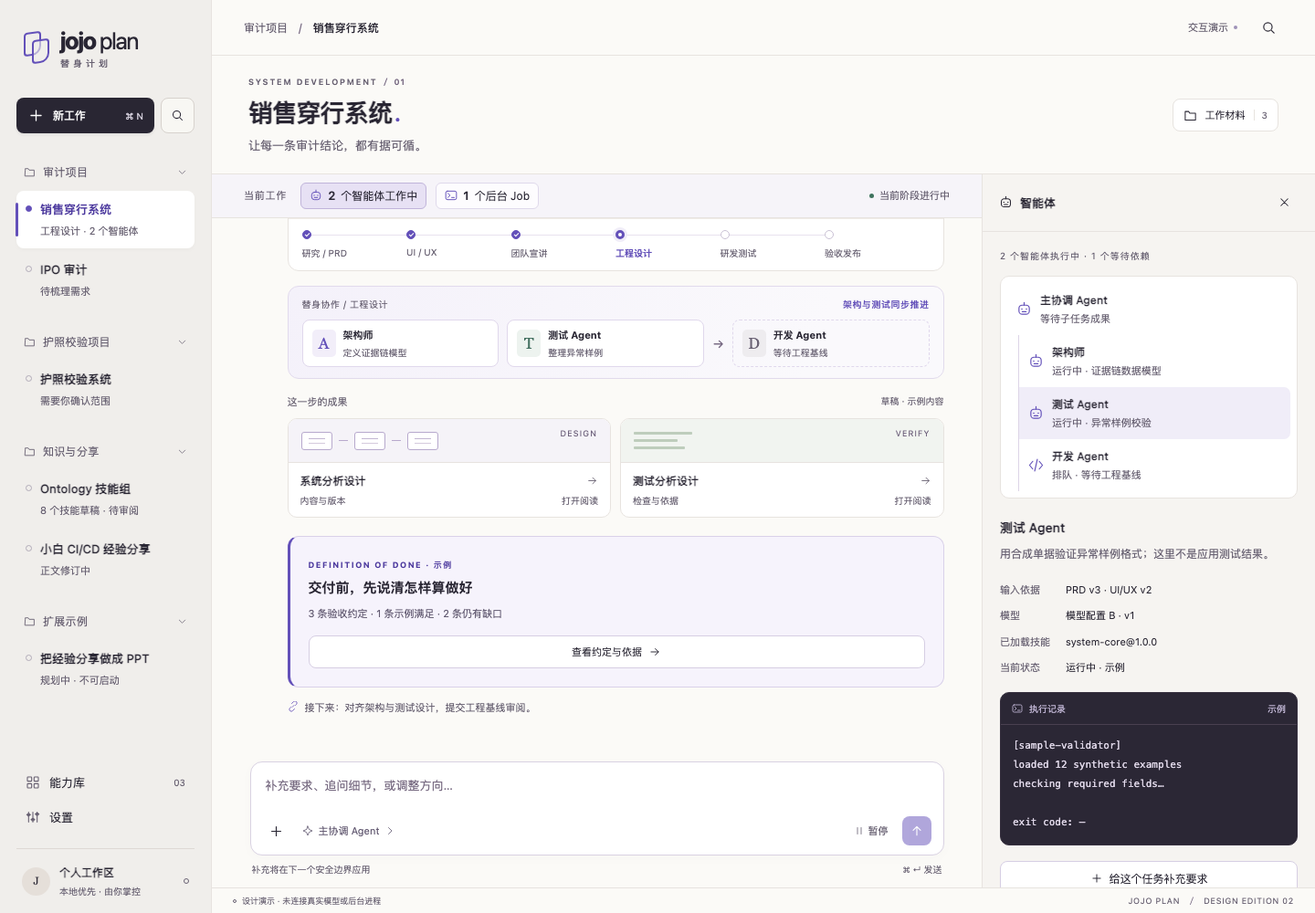
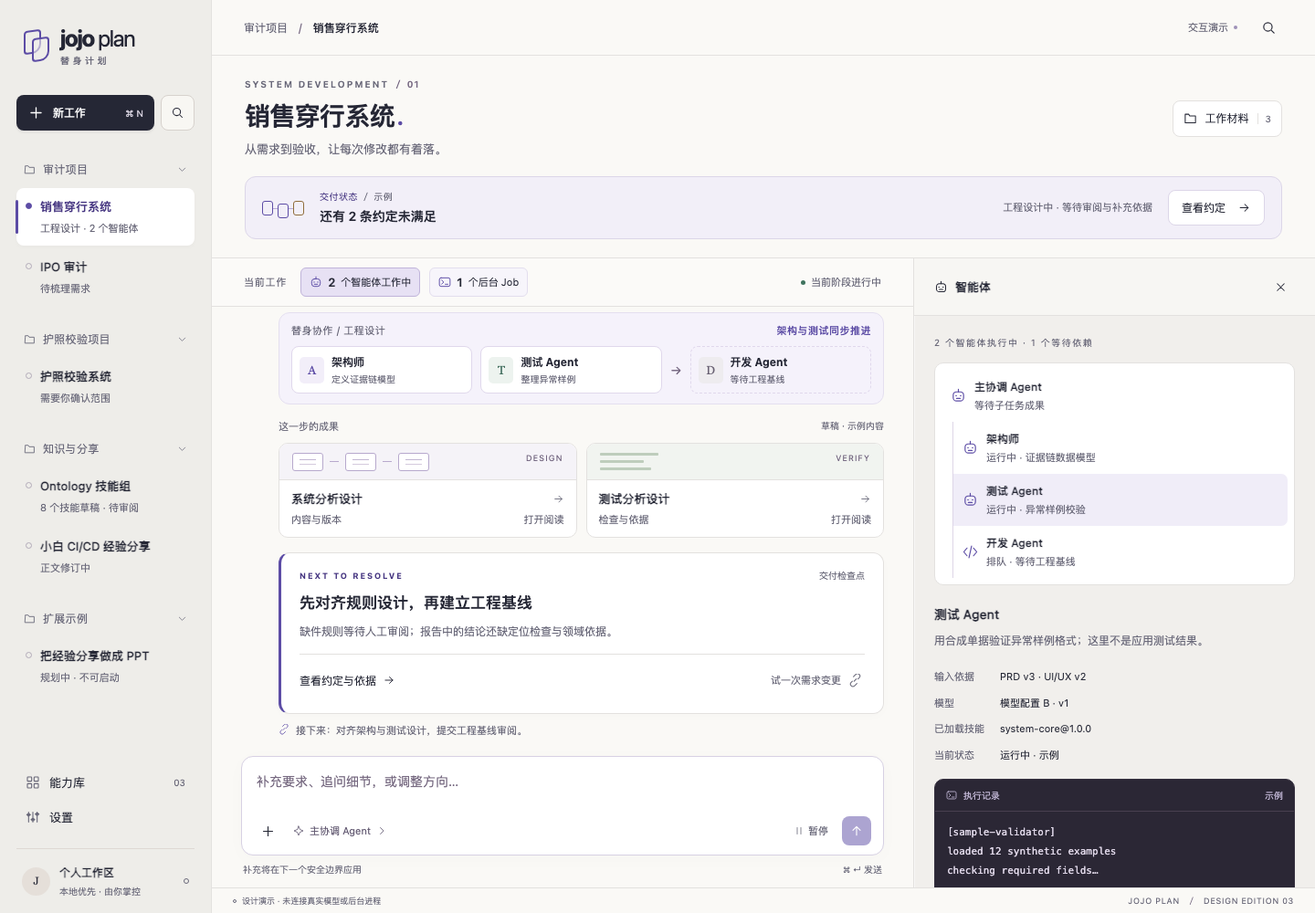
Polish Design Edition 03 around delivery evidence and change review

diff --git a/docs/design/screenboard.css b/docs/design/screenboard.css
@@ -17,3 +17,26 @@
 
 /* S1: delivery confidence is explained through evidence, never a model score. */
 .delivery-card{margin:20px 0 8px;padding:20px;border:1px solid #d9d1e9;border-left:3px solid var(--accent);border-radius:12px;background:#f6f3fc;display:flex;flex-wrap:wrap;gap:14px;align-items:center;justify-content:space-between}.delivery-eyebrow{font-size:9px;font-weight:700;letter-spacing:1.4px;color:var(--accent-dark)}.delivery-card h3{font-size:15px;line-height:1.5;margin:7px 0}.delivery-card p{font-size:11px;line-height:1.8;color:#625a71}.delivery-card .detail-action{font-size:11px;padding:9px 0}.criterion{display:flex;gap:10px;align-items:flex-start;padding:17px 0;border-bottom:1px solid var(--line)}.criterion-id{font-size:10px;color:var(--accent-dark);padding-top:3px;white-space:nowrap}.criterion>div{flex:1;min-width:0}.criterion strong{font-size:13px;line-height:1.7}.criterion p{font-size:11px;margin-top:5px}.criterion-state{font-size:10px;white-space:nowrap;color:var(--green);padding-top:4px}.criterion-state.warning{color:#805216}.evidence-path{list-style:none;margin:13px 0;padding:0 0 0 16px;border-left:2px solid #d9d1e9}.evidence-path li{margin:0;padding:9px 0}.evidence-path small{display:block;font-size:10px;color:var(--muted);margin-bottom:4px}.evidence-path strong{font-size:12px;line-height:1.8}.delivery-verdict{background:#f4f0e7;border-radius:8px;color:#765018;font-size:12px;line-height:1.9;padding:12px 14px;margin:20px 0}.impact-list{margin:20px 0}.impact-list>div{padding:14px 0;border-bottom:1px solid var(--line)}.impact-list strong{font-size:13px}.impact-list p{margin-top:6px;font-size:12px}.delivery-paper .detail-action{white-space:normal;text-align:left;line-height:1.8}@media(max-width:580px){.delivery-card{padding:14px}.criterion{flex-wrap:wrap}.criterion-state{margin-left:43px}.delivery-card h3{font-size:13px}}
+
+/* Design Edition 03 — a quiet workspace with a visible delivery thread. */
+:root{--paper:#faf9f6;--ink:#252735;--muted:#696879;--accent:#5c4ca5;--accent-dark:#473782;--lavender:#f0edf8;--line:#e3e1df}
+.sidebar{background:#eeede9;padding-top:27px}.brand{font-size:25px}.brand small{letter-spacing:3.5px}.topbar{background:var(--paper)}
+.work-heading{padding:24px 36px 19px;gap:20px}.work-heading h1{font-size:28px;letter-spacing:-.65px;font-weight:630}.work-heading .overline{font-size:10px;letter-spacing:2px}.work-heading p{font-size:13px}.material-button{font-size:12px;min-height:40px}
+.outcome-strip{display:flex;align-items:center;gap:17px;flex-shrink:0;margin:0 36px 20px;border:1px solid #dcd6e8;border-radius:12px;padding:14px 18px;background:#f2eff8;min-width:0}.outcome-emblem{display:flex;align-items:center;position:relative;gap:5px;flex-shrink:0}.outcome-emblem:before{content:'';position:absolute;left:5px;right:5px;top:50%;height:1px;background:#b9acd8}.outcome-emblem i{position:relative;width:12px;height:16px;border:1.5px solid var(--accent);background:#f2eff8;border-radius:3px}.outcome-emblem i:nth-child(2){margin-top:6px}.outcome-emblem i:last-child{border-color:#906d3b}.outcome-emblem i.changed{border-style:dashed}.outcome-copy{min-width:0;display:flex;flex-direction:column;gap:4px}.outcome-copy>span{font-size:10px;letter-spacing:.5px;color:var(--accent-dark)}.outcome-copy small{font-size:10px;color:var(--muted)}.outcome-copy strong{font-size:14px;line-height:1.5;font-weight:620}.outcome-strip>p{font-size:11px;color:var(--muted);margin-left:auto;line-height:1.7}.outcome-button{display:flex;align-items:center;gap:13px;background:#fff;border:1px solid #dcd6e8;padding:10px 14px;white-space:nowrap;font-size:12px;flex-shrink:0}.outcome-button svg{width:15px;height:15px}
+.activitybar{background:#fbfaf8;border-bottom:1px solid var(--line);padding-top:10px;padding-bottom:10px}.activitybar button{background:#f7f5fb;border-color:#e3deee;min-height:32px;font-size:11px}.health{font-size:11px}.timeline{padding-top:24px;padding-bottom:24px;scrollbar-gutter:stable}.message-text{font-size:14px;line-height:1.95}.message-meta{font-size:11px}.date-divider{font-size:11px}.avatar{border-radius:10px}.stage-card{margin-top:18px;border-radius:12px;background:#fff}.stage-card-head{padding:14px 16px}.stage-title strong{font-size:13px}.step-track{padding:0 16px 15px}.step{font-size:10px}.team-relay{padding:14px 15px;border-color:#e4dfef;background:#f5f2fb;margin:16px 0}.relay-label{font-size:11px}.person{padding:10px 9px;background:#fff}.person strong{font-size:12px}.person small{font-size:10px}.artifact-heading{font-size:11px}.artifact-art{height:52px}.artifact-info strong{font-size:13px}.artifact-info p{font-size:11px}.document-stamp{font-size:8px;letter-spacing:1.4px}
+.delivery-card{display:block;background:#fff;border:1px solid var(--line);border-left:3px solid var(--accent);padding:20px 21px;margin-top:20px;box-shadow:0 3px 12px #25273504}.delivery-card-top{display:flex;justify-content:space-between;align-items:center;gap:12px}.delivery-eyebrow{font-size:9px;letter-spacing:1.8px}.delivery-tag{font-size:10px;color:var(--muted)}.delivery-card h3{font-size:17px;line-height:1.7;margin:12px 0 7px;font-weight:620}.delivery-card p{font-size:12px;line-height:1.9;color:var(--muted)}.delivery-card-actions{display:flex;justify-content:space-between;flex-wrap:wrap;gap:8px;margin-top:17px;padding-top:13px;border-top:1px solid var(--line)}.delivery-card .detail-action{padding:7px 0;font-size:12px;border:0;background:none;width:auto}.quiet-action{display:inline-flex;align-items:center;gap:8px;font-size:12px;color:var(--accent-dark);padding:9px 3px;min-height:36px;line-height:1.7;text-align:left}.quiet-action svg{width:15px;height:15px}.handoff-action{margin-top:12px}.delivery-card .quiet-action{font-size:11px;color:var(--muted)}
+.inspector{width:440px;background:#f1efec;box-shadow:inset 1px 0 #ffffff80}.inspector-content{padding:22px;scrollbar-gutter:stable}.inspector-head{padding:15px 22px;background:#f7f6f3}.inspector-head h2{font-size:13px}.inspector-eyebrow{font-size:10px;letter-spacing:1.5px}.paper{padding:25px 23px;border:1px solid #dfdcd7;border-radius:12px;box-shadow:0 4px 18px #25273504}.paper-label{font-size:10px;letter-spacing:.65px;line-height:1.9;color:var(--accent-dark)}.paper h2{font-size:24px;font-weight:620;line-height:1.55;letter-spacing:-.5px;margin:16px 0 17px}.paper h3{font-size:13px;font-weight:620;line-height:1.8}.paper p{font-size:12px;line-height:1.95}.paper-note{font-size:11px!important}.sample-label{font-size:10px!important;color:var(--muted);line-height:1.9!important;padding-bottom:15px;border-bottom:1px solid var(--line)}.criterion{padding:18px 0;gap:10px}.criterion strong{font-size:13px;line-height:1.8}.criterion p{font-size:11px}.criterion-id{font-size:10px}.criterion-state{font-size:10px}.evidence-path{border-left:1px solid #bdb0d9;margin-top:14px;margin-bottom:18px}.evidence-path li{padding:10px 0}.evidence-link{display:flex;align-items:center;gap:8px;padding:4px 0;color:var(--accent-dark);font-size:12px;font-weight:550;text-align:left;line-height:1.9}.evidence-link svg{width:13px;height:13px;flex-shrink:0}.delivery-verdict{font-size:12px;line-height:1.9;background:#f5f0e5;border-left:2px solid #b28b47;border-radius:0 7px 7px 0;padding:13px 14px;margin:20px 0}.evidence-facts{display:grid;grid-template-columns:68px 1fr;font-size:12px;gap:16px 12px;line-height:1.8;margin:24px 0}.evidence-facts dt{color:var(--muted)}.evidence-facts dd{margin:0}.source-excerpt{background:#f8f7f4;border:1px solid var(--line);border-radius:8px;padding:14px}.source-excerpt>div{display:flex;justify-content:space-between;font-size:10px;color:var(--muted);margin-bottom:14px}.source-excerpt code{font-size:12px;line-height:1.8;white-space:normal;overflow-wrap:anywhere}.source-excerpt p{margin-top:12px}
+.change-compare{display:grid;grid-template-columns:1fr 20px 1fr;align-items:center;gap:9px;margin:20px 0 12px}.change-compare>div{padding:12px;border:1px solid var(--line);border-radius:8px;background:#f7f6f3}.change-compare>div:last-child{background:#f2eff8;border-color:#dbd4e9}.change-compare small{font-size:10px;color:var(--muted)}.change-compare p{font-size:11px;margin-top:7px}.change-compare strong{font-size:12px;font-weight:620}.change-compare svg{width:17px;height:17px;color:var(--accent)}.impact-heading{display:flex;justify-content:space-between;align-items:center;margin-top:22px}.impact-heading span{font-size:11px;color:var(--muted)}.impact-list{margin:8px 0 20px}.impact-list>div{display:flex;align-items:flex-start;gap:12px;padding:17px 0}.impact-list section{flex:1;min-width:0}.impact-list strong{font-size:13px}.impact-list p{font-size:11px;margin-top:3px}.impact-number{font-size:11px;color:var(--muted);padding-top:3px;font-variant-numeric:tabular-nums}.impact-state{font-size:10px;color:#805216;white-space:nowrap;padding-top:3px}.preserved{display:flex;align-items:flex-start;gap:11px;padding:15px 13px;background:#eef3ee;border-radius:8px}.preserved svg{width:16px;height:16px;color:var(--green)}.preserved strong{font-size:12px;color:#3e654d}.preserved p{font-size:11px!important;color:#52715d;margin-top:3px}.coverage-note{margin:16px 0;font-size:11px;color:var(--muted);line-height:1.9}.coverage-note summary{cursor:pointer;min-height:28px}.coverage-note p{font-size:11px!important;margin-top:8px}.impact-apply{width:100%;justify-content:center;min-height:43px;font-size:12px}.impact-paper .note{margin:10px 0 13px}.handoff-list{margin-top:14px}.handoff-list>div{display:flex;gap:12px;padding:16px 0;border-bottom:1px solid var(--line)}.handoff-list svg{width:17px;height:17px;color:var(--accent);margin-top:3px}.handoff-list strong{font-size:13px}.handoff-list p{font-size:11px;margin-top:5px}
+.composer{border-color:#d7d1e3;background:#fff;box-shadow:0 4px 22px #25273505}.composer textarea{font-size:14px;line-height:1.8}.composer-foot{font-size:10px}.screen h1{font-size:40px;line-height:1.4;letter-spacing:-1.5px;font-weight:580}.screen-lead{font-size:14px;line-height:1.95;max-width:690px}.screen .overline{font-size:10px;letter-spacing:2px}.start-hero{padding-bottom:32px}.start-hero .brand-mark{transform:scale(3);margin:45px 50px}.type-option strong{font-size:14px}.type-option small{font-size:12px}.package-card h2{font-size:22px}.package-card p{font-size:13px;line-height:1.9}
+@media(min-width:1500px){.work-heading{padding-left:48px;padding-right:48px}.outcome-strip{margin-left:48px;margin-right:48px}.inspector{width:460px}}
+@media(max-width:1250px){.work-heading{padding:22px 30px 17px}.outcome-strip{margin:0 30px 17px}.outcome-strip>p{display:none}.outcome-button{margin-left:auto}.inspector{width:440px;box-shadow:-18px 0 70px #25273518}.timeline{padding-top:21px}}
+@media(max-width:800px){.work-heading{padding:20px}.outcome-strip{margin:0 20px 15px;padding:12px 14px;gap:12px}.outcome-copy strong{font-size:13px}.outcome-emblem{display:none}.screen h1{font-size:32px}.screen-lead{font-size:13px}.team-relay{padding:13px}.delivery-card h3{font-size:16px}}
+@media(max-width:580px){.work-heading{padding:17px 16px 13px}.work-heading h1{font-size:22px}.work-heading p{font-size:11px}.work-heading .overline{font-size:8px;letter-spacing:1.3px}.outcome-strip{margin:0 15px 12px;padding:10px 11px;gap:8px;flex-wrap:wrap}.outcome-copy{flex:1}.outcome-copy>span{font-size:9px}.outcome-copy strong{font-size:12px}.outcome-button{padding:8px;font-size:10px;gap:5px}.outcome-button svg{width:12px;height:12px}.activitybar button{font-size:10px}.timeline{padding:18px 15px}.delivery-card{padding:16px}.delivery-card h3{font-size:14px}.delivery-card p{font-size:11px}.delivery-card-actions{gap:3px}.delivery-card .detail-action{font-size:11px}.inspector{width:calc(100% - 58px)}.inspector-content{padding:14px}.inspector-head{padding:12px 14px}.paper{padding:20px 16px}.paper h2{font-size:22px}.change-compare{grid-template-columns:1fr;gap:6px}.change-compare>span{display:none}.change-compare>div{display:flex;align-items:center;justify-content:space-between;gap:9px}.change-compare p{margin:0}.criterion-state{margin-left:43px}.screen h1{font-size:29px}.start-hero .brand-mark{display:none}.screen-lead{font-size:12px}}
+@media(prefers-reduced-motion:reduce){*,*:before,*:after{animation:none!important;transition:none!important;scroll-behavior:auto!important}}
+/* Second craft pass: reserve the working area for the current decision. */
+.team-relay{padding:11px 13px}.relay-label{margin-bottom:9px}.person{padding:8px}.person-initial{width:27px;height:29px;font-size:13px}.person small{margin-top:3px}.delivery-card{padding:17px 20px}.delivery-card h3{margin:9px 0 6px}.delivery-card-actions{margin-top:12px;padding-top:10px}.paper .impact-heading h3{margin:0}.impact-paper h2{font-size:23px;margin:13px 0}.impact-paper .change-compare{margin-top:14px}.impact-paper .impact-list>div{padding:13px 0}.impact-paper .delivery-verdict{margin:15px 0}.source-excerpt p{font-size:11px}.evidence-facts{font-size:11px}
+@media(max-width:580px){.delivery-card{padding:15px}.person-initial{display:none}.relay-people{gap:6px}.person{padding:9px}.relay-label{font-size:10px}}
+/* Final reading pass: fit the latest collaboration block without a clipped edge. */
+.timeline{padding-bottom:10px}.timeline>.message-row:last-child{margin-bottom:8px}.artifact-art{height:40px}
+.timeline{padding-bottom:6px}.delivery-card{margin-top:16px}.activity-note{margin-top:8px}
+@media(max-width:580px){.stage-card-head{gap:7px;padding:12px}.stage-card-head .text-button{white-space:nowrap;flex-shrink:0;font-size:10px;gap:3px}.stage-title small{font-size:10px}.stage-number{width:27px;height:28px}}

diff --git a/docs/design/screenboard.html b/docs/design/screenboard.html
@@ -4,7 +4,7 @@
   <meta charset="utf-8">
   <meta name="viewport" content="width=device-width, initial-scale=1">
   <meta name="color-scheme" content="light">
-  <meta name="description" content="jojo plan 替身计划 — 与智能体一起，把想法变成成果。交互设计演示。">
+  <meta name="description" content="jojo plan 替身计划 — 可验收的 AI 项目交付工作台。交付约定、依据与变更都在同一条工作主线。交互设计演示。">
   <title>jojo plan · 替身计划</title>
   <link rel="stylesheet" href="screenboard.css">
   <script src="screenboard.js" defer></script>
@@ -45,6 +45,7 @@
     <header class="topbar"><div class="breadcrumb" id="breadcrumb">审计项目 <span>/</span> 销售穿行系统</div><div class="top-actions"><span class="demo-badge">交互演示 <i></i></span><button class="icon-button" data-action="search" aria-label="快捷导航"><svg><use href="#i-search"/></svg></button></div></header>
     <section id="UI-02" class="work-view">
       <div class="work-heading"><div><div class="overline" id="work-kicker">SYSTEM DEVELOPMENT <span>／ 01</span></div><h1 id="worktitle">销售穿行系统<span class="title-dot">.</span></h1><p id="worksubtitle">让每一条审计结论，都有据可循。</p></div><button class="material-button" data-inspect="materials"><svg><use href="#i-folder"/></svg><span>工作材料</span><span id="material-count">3</span></button></div>
+      <div id="delivery-summary" class="outcome-strip" aria-label="当前交付状态"></div>
       <div class="work-layout">
         <section class="conversation" aria-label="任务对话">
           <div class="activitybar" id="activitybar" aria-label="当前工作执行状态"></div>
@@ -57,7 +58,7 @@
     <section id="UI-01" class="screen" hidden></section>
     <section id="UI-04" class="screen" hidden></section>
     <section id="UI-05" class="screen" hidden></section>
-    <footer class="app-foot"><span><i></i>设计演示 · 未连接真实模型或后台进程</span><span>JOJO PLAN <b>／</b> DESIGN EDITION 02</span></footer>
+    <footer class="app-foot"><span><i></i>设计演示 · 未连接真实模型或后台进程</span><span>JOJO PLAN <b>／</b> DESIGN EDITION 03</span></footer>
   </main>
 </div>
 <dialog id="palette" aria-labelledby="palette-title"><div class="palette-head"><svg><use href="#i-search"/></svg><label id="palette-title" class="sr-only" for="palette-input">搜索工作或页面</label><input id="palette-input" placeholder="搜索工作、项目或页面…" autocomplete="off"><button class="icon-button" data-action="close-palette" aria-label="关闭搜索"><svg><use href="#i-close"/></svg></button></div><div class="palette-results" id="palette-results"></div><div class="palette-foot">↑ ↓ 选择　↵ 打开 <span>Esc 关闭</span></div></dialog>

diff --git a/docs/design/edition-03-review.md b/docs/design/edition-03-review.md
@@ -1,0 +1,55 @@
+# Design Edition 03：可验收交付的工作区
+
+2026-10-08｜定位 S1 / 开发规格 JP-1.1。交付为静态交互设计；演示状态不代表实际Agent、项目验收或获奖结果。
+
+## 设计判断
+
+以「从约定到依据，一条连续的工作主线」组织体验。暖白让长时间阅读舒适，紫色表示当前工作与可操作关联，绿色表示保留的依据，琥珀表示需处理的缺口。相连的轮廓从品牌标识延续到交付摘要；原创表达与实际功能相连。
+
+主工作区回答：离交付缺什么、当前在做什么、接下来需判断什么。交付摘要常驻，执行栏分别列出Agent和后台Job；主区域继续是对话，不把品质管理做成另一套业务导航。
+
+## 相对上一版的修复
+
+| 问题 | 修改 | 设计理由 |
+| --- | --- | --- |
+| 交付约定埋在对话下方 | 工作标题下常驻交付状态、缺口与约定入口 | 滚动聊天仍能看清结果状态 |
+| 新定位只增加一张卡，其他入口仍强调组织Agent | 新工作、能力库、工作说明一起修订 | 让进入产品时就理解可验收交付 |
+| 文件数和角色卡压过当前决定 | 缩短阶段摘要、收紧协作卡；完整流程按需阅读 | 留空间给成果与下一步 |
+| 依据链只能读，无法验证指向什么 | 关联可点开样本定位、目标版本及示例记录 | 要求、文件、结果真正连起来 |
+| 变更前后需要从一段话中寻找 | 原约定与拟议约定对照，列出修订/重验/保持有效 | 让影响范围和下一步可扫描 |
+| 交接价值只在策略里 | 同一详情区预览五类交接内容与开放问题 | 展示接手者如何继续，而非仅展示生成文件 |
+| 窄窗口详情仅阻止聊天交互 | 同时阻止背景导航、标题和交付入口；关闭恢复入口焦点 | 模态行为与无障碍语义一致 |
+| 细节页只能关闭 | 依据、影响和交接页可返回约定；支持宽幅阅读 | 避免阅读一层后丢失工作上下文 |
+
+## 本轮实际自检与迭代
+
+1. 定位审查：发现摘要被埋、入口文案未同步；修订常驻状态与全部工作类型入口。
+2. 页面审查：查看1440宽实际截图，发现阶段/协作空间仍过多；将阶段轨道收到完整计划，缩短卡片和预演标题间距。
+3. 交互审查：新增依据定位、交接清单、返回路径及摘要滚动可见检查。首轮检查遇到新旧入口的选择器歧义，改为明确定位详情内操作后复验。
+4. 可读性/适配审查：复查四种宽度、文字放大、减少动态效果、焦点和文字对比度；最终结果以checks目录的报告为准。
+
+这些轮次由同一代理完成，不冒充独立专家或真实用户评审。自检不使用自行打出的“获奖分数”。
+
+## 品质标准的使用
+
+参考 [Webby应用/软件标准](https://www.webbyawards.com/judging-criteria/) 的内容、结构导航、视觉、功能、交互、执行与整体体验；将它们转成能观察的任务路径和状态检查。[FWA周年官方说明](https://thefwa.com/FWA25/25.html)强调创意、原创与技术完成度，本轮将品牌图形与可操作的依据链联系起来，不增加无关效果。Awwwards视觉与可用性方向沿用[前版品质研究](quality-review.md)；本轮官方评分页面读取超时，没有宣称完成新的评分规则核验。
+
+这些奖项各自有不同评审与类别，本地桌面交互设计不等于已有可参赛成品。实际模型工作质量、完整无障碍评估、macOS安装体验、用户采用和外部评审仍需后续实施和证据。
+
+## 演示操作
+
+进入销售穿行工作 → 顶部「查看约定」→ 点E-02查看具体依据 → 返回 → 预演修改 → 查看三项影响与独立格式检查 → 应用合成变更 → 看见旧依据失效与交付阻断 → 查看交接清单。
+
+审计项目与护照项目仍是同级，销售穿行/IPO在审计项目内。Skill、文档、系统继续共用工作区；PPT保留不可运行的扩展示例。未新增全局tab，没有原生连接器或真实导出能力承诺。
+
+## 接给开发团队的状态约束
+
+常驻摘要从服务中当前版本的约定、检查、审批和失效记录推导，不由模型自由编写。修改后需重验与执行暂停独立：暂停Agent不能撤销变更或恢复旧依据。详情返回不创建新任务；导出保留未完成项与受限材料缺口。依据来源明确区分合成、导入与真实runner记录。
+
+本版细化UI-02/03/01/04的表现，仍复用52个RPC方法和既有领域状态。交付约束以[内容规格](../spec/16-delivery-contract.md)为准；演示中的SAMPLE-007及所有状态仅用于验证界面行为。
+
+## 最终检查记录
+
+26组浏览器路径检查与4组新增详情/模态/首屏阅读检查全部通过；1650个可见纯色背景文字样本未发现对比度失败。检查四种窗口尺寸、200%文字放大、减少动态效果、焦点、草稿保留、工作隔离与无外部网络依赖。首屏协作卡裁切在专项检查中被发现并修复，复验通过。静态截图与报告一并保留。
+
+开发交接规格检查196项通过，全体文档141个本地链接存在。SQL/API数量未变化。新增领域内容约束仍须在实际应用中验证。

diff --git a/docs/design/visual-check.md b/docs/design/visual-check.md
@@ -1,15 +1,13 @@
-# Design Edition 02 · 显示与交互检查
+# Design Edition 03 · 显示与交互检查
 
-2026-10-02。当前稿为screenboard.html + screenboard.css + screenboard.js，全部执行数据为示例，无真实模型或后台进程。
+2026-10-08。当前截图对应S1定位和Edition03表现规格，状态均为合成演示。
 
-完成四轮修订，最终浏览器23项组检查全部通过。覆盖六个工作情境、任务输入/消息/定向补充保留、暂停/恢复同步、搜索、演示新建、PPT预览、面板焦点返回与键盘边界、减少动态效果、文字放大以及无脚本错误/无外部HTTP请求。1440×900、1100×720、768×900、390×844分别检查对话与详情无横向溢出、主输入操作可达。
+- [主工作区](conversation-workspace.png)：常驻交付状态、Agent/Job计数与当前检查点。
+- [交付约定](delivery-contract.png) / [依据定位](evidence-locator.png)：要求、目标版本、样本行和来源性质。
+- [变更预演](change-preview.png) / [应用后状态](change-applied.png)：修改前后、受影响项、保持有效项和重验缺口。
+- [交接清单](handoff-preview.png)：成果版本、依据、开放问题与继续工作方式；结构预览不等于真实导出。
+- [智能体详情](agent-inspector.png) / [后台任务](background-jobs.png)：角色、执行、日志和关联产物。
+- [新工作](new-work.png)、[能力库](capability-library.png)、[PPT扩展示例](ppt-extension.png)：不同工作包共用交付主线。
+- [紧凑窗口](compact-workspace.png) / [窄窗口](narrow-workspace.png)：保留主操作，详情适配模态。
 
-1029个可见纯色背景文字样本对比度检查无失败。此检查排除禁用、装饰、渐变背景文字，不代表完整WCAG认证。200%检查是文字尺寸放大后的页面溢出检查，不是macOS系统级缩放或屏幕阅读器完整验收。
-
-截图：[工作区](conversation-workspace.png)、[智能体](agent-inspector.png)、[后台Jobs](background-jobs.png)、[成果阅读](artifact-review.png)、[新工作](new-work.png)、[能力库](capability-library.png)、[设置](settings.png)、[搜索](command-palette.png)、[PPT扩展](ppt-extension.png)、[紧凑窗口](compact-workspace.png)、[极窄窗口](narrow-workspace.png)。已查看工作区、Agent、新工作、成果、能力库和两种窄窗口的实际截图。
-
-可复现脚本与JSON结果位于[检查说明](checks/README.md)。迭代发现及获奖品质目标见[品质审阅](quality-review.md)。真实运行、持久化、安装、跨浏览器与业务正确性尚需应用研发后验证。
-
-## S1 补充
-
-新增 [交付约定](delivery-contract.png)、[变更预演](change-preview.png)、[应用后重验状态](change-applied.png)。保持Agent/Job常驻、审计/护照项目层级、统一详情区。证据与变更为合成数据；刷新清除。主工作区截图随本轮一并更新。
+人工审查主工作区、依据、变更、新工作和窄窗口实际截图。任务行为和检查结果见[本轮审阅](edition-03-review.md)与checks目录。纯色文字对比度抽样不等于完整WCAG认证；没有进行屏幕阅读器或真实macOS应用验收。

diff --git a/docs/spec/04-ux-spec.md b/docs/spec/04-ux-spec.md
@@ -127,3 +127,9 @@ W-19/T-43追加验收：长对话滚动仍可见执行栏；两个Agent共享一
 ## S1补充（2026-10-02）
 
 UI-02聊天增加交付约定卡；UI-03复用详情区展示依据与变更预演，不增加全局导航。用户先看缺什么，再按需查Agent/Job。销售穿行示例可应用合成规则变更，旧证据需重验；仅当前页面内存演示。具体状态见[闭环规格](16-delivery-contract.md)。
+
+## Design Edition 03（2026-10-08）
+
+按S1可验收交付定位修订：UI-02工作标题下常驻交付摘要，滚动聊天仍可查看；当前阶段用简短摘要，完整计划在UI-03；聊天内检查点列出下一步。UI-03增加依据定位、变更前后对照、修订/重验/保持有效清单、交接结构预览与返回约定。详细表现与范围见[设计审阅](../design/edition-03-review.md)。不新增顶层tab或RPC。
+
+小窗详情按模态处理，背景导航、标题、摘要、执行与对话不可交互；关闭恢复逻辑入口焦点。宽窗详情与对话并列。依据明确标注来源性质、对应要求和目标版本；新要求不能沿用旧通过结论。交接清单预览明确未提供真实导出，PPT仍为扩展示例。

diff --git a/docs/design/checks/README.md b/docs/design/checks/README.md
@@ -14,3 +14,5 @@ node docs/design/checks/contrast-check.cjs
 对比度检查只覆盖当前可见纯色背景文字，排除渐变、装饰、禁用内容；不能替代完整辅助功能审核。浏览器检查的200%是文字样式放大，不宣称等价系统级缩放。测试中的模拟执行状态用于交互一致性检查，不是运行服务实测。
 
 S1增加交付约定、变更预演、应用后旧依据失效、跨工作不串状态以及重置示例检查；24组浏览器检查。四种宽度亦覆盖交付详情。新增截图delivery-contract、change-preview、change-applied。检查仍只覆盖静态演示；不验证真实baseline事务、模型或专业结论。
+
+2026-10-08 Edition03：browser-check包含26组检查；edition03-check另检查四条新增模态/阅读路径。contrast-check覆盖依据定位、交接清单及变更前后。新增截图evidence-locator、handoff-preview。原版本的24组记录为历史。新增的edition03-results.json同样只验证静态设计，不声明真实运行或获奖。

diff --git a/docs/design/quality-review.md b/docs/design/quality-review.md
@@ -67,3 +67,7 @@
 自查修正：原示例把尚未运行的验证记录写成变更后失效，容易混淆「未执行」与「旧版本通过」。已改为明确的合成示例：E-02在规则v1下示例通过，但仍缺人工审阅；改变规则后不能继续引用其通过状态。所有页面仍标明交互演示，不证明真实模型或系统通过。
 
 浏览器新增变更状态、跨工作隔离及恢复原示例检查；扩大四种宽度检查覆盖至交付详情。对比度抽样增加约定/变更/应用后的视图。结果见checks目录；这不构成获奖证明、完整无障碍认证或市场验证。
+
+## Design Edition 03（2026-10-08）
+
+S1定位落入常驻交付摘要、可点击依据、变更对照与交接预览。详细发现和修订见[本轮审阅](edition-03-review.md)。最新结果以checks目录报告为准；前文Edition02与S1数值为当轮历史结果。

diff --git a/README.md b/README.md
@@ -19,3 +19,5 @@
 2026-10-02：交互设计升级为 **Design Edition 02**，包含统一视觉体系、常驻执行栏、角色协作卡、快捷搜索和可操作演示。参阅[品质审阅与检查记录](docs/design/quality-review.md)。
 
 战略修订 S1：[为什么值得存在](docs/strategy/00-readme.md) · [竞品研究](docs/strategy/01-competitive-research.md) · [投资人备忘录](docs/strategy/03-business-and-moat.md) · [用户与推广材料](docs/strategy/04-audience-and-launch.md)。当前为设计阶段，没有已验证护城河。
+
+2026-10-08：最新设计为 **Design Edition 03**。交付状态常驻，依据可定位到版本与样本，变更可预演，交接清单与缺口一起查看。入口仍为[交互设计稿](docs/design/screenboard.html)，详见[本轮设计审阅](docs/design/edition-03-review.md)。

diff --git a/docs/spec/12-development-plan.md b/docs/spec/12-development-plan.md
@@ -98,3 +98,5 @@ W-04设计交付更新为Design Edition 02；W-17继承其中搜索、消息/阅
 ## S1补充（2026-10-02）
 
 在原安全/存储/执行基础上，先贯通[交付闭环](16-delivery-contract.md)的一次合成规则变更，再扩展Skill和文档；不跳过原依赖。DC-01至06是补充验收，未运行真实服务验证。完整应用仍需原20工作包，不能把静态演示算作应用完成。
+
+W-04/W-19界面实现更新至[Design Edition 03](../design/edition-03-review.md)：保留真实执行可观测，并实现常驻派生交付摘要、可定位依据、变更与交接详情。W-17继承新增静态演示路径检查，在真实服务中补做状态、版本与故障检查，不把静态示例认作集成验证。

diff --git a/docs/README.md b/docs/README.md
@@ -21,3 +21,5 @@
 本轮修订：前六项决定已确认；统一任务对话、可展开的Agent/进程详情、工作包扩展。写PPT已定义后续接入方式，未承诺首版生成能力。
 
 最新 S1：[产品定位与竞争研究](strategy/00-readme.md)、[用户与市场材料](strategy/04-audience-and-launch.md)、[投资人备忘录](strategy/03-business-and-moat.md)、[交付闭环补充规格](spec/16-delivery-contract.md)。既有JP-1.1与S1配套阅读，旧稿不能覆盖新决定。
+
+2026-10-08：设计稿以[Design Edition 03](design/edition-03-review.md)为当前表现规格；结合S1交付定位修订工作区、入口文案、依据/变更/交接细节。

diff --git a/docs/spec/00-reading-guide.md b/docs/spec/00-reading-guide.md
@@ -35,3 +35,5 @@ JP-1.1 重点先看 [新交互设计](04-ux-spec.md) 与 [扩展协议](15-conve
 ## S1补充（2026-10-02）
 
 定位与设计增加 S1 补充：[战略阅读入口](../strategy/00-readme.md)与[交付闭环规格](16-delivery-contract.md)。与JP-1.1共同阅读，接口数量和运行底座不变。
+
+2026-10-08：当前界面表现以[Design Edition 03审阅](../design/edition-03-review.md)及同路径screenboard为准。设计检查与真实运行验收分开，JP-1.1和S1领域契约继续配套阅读。
